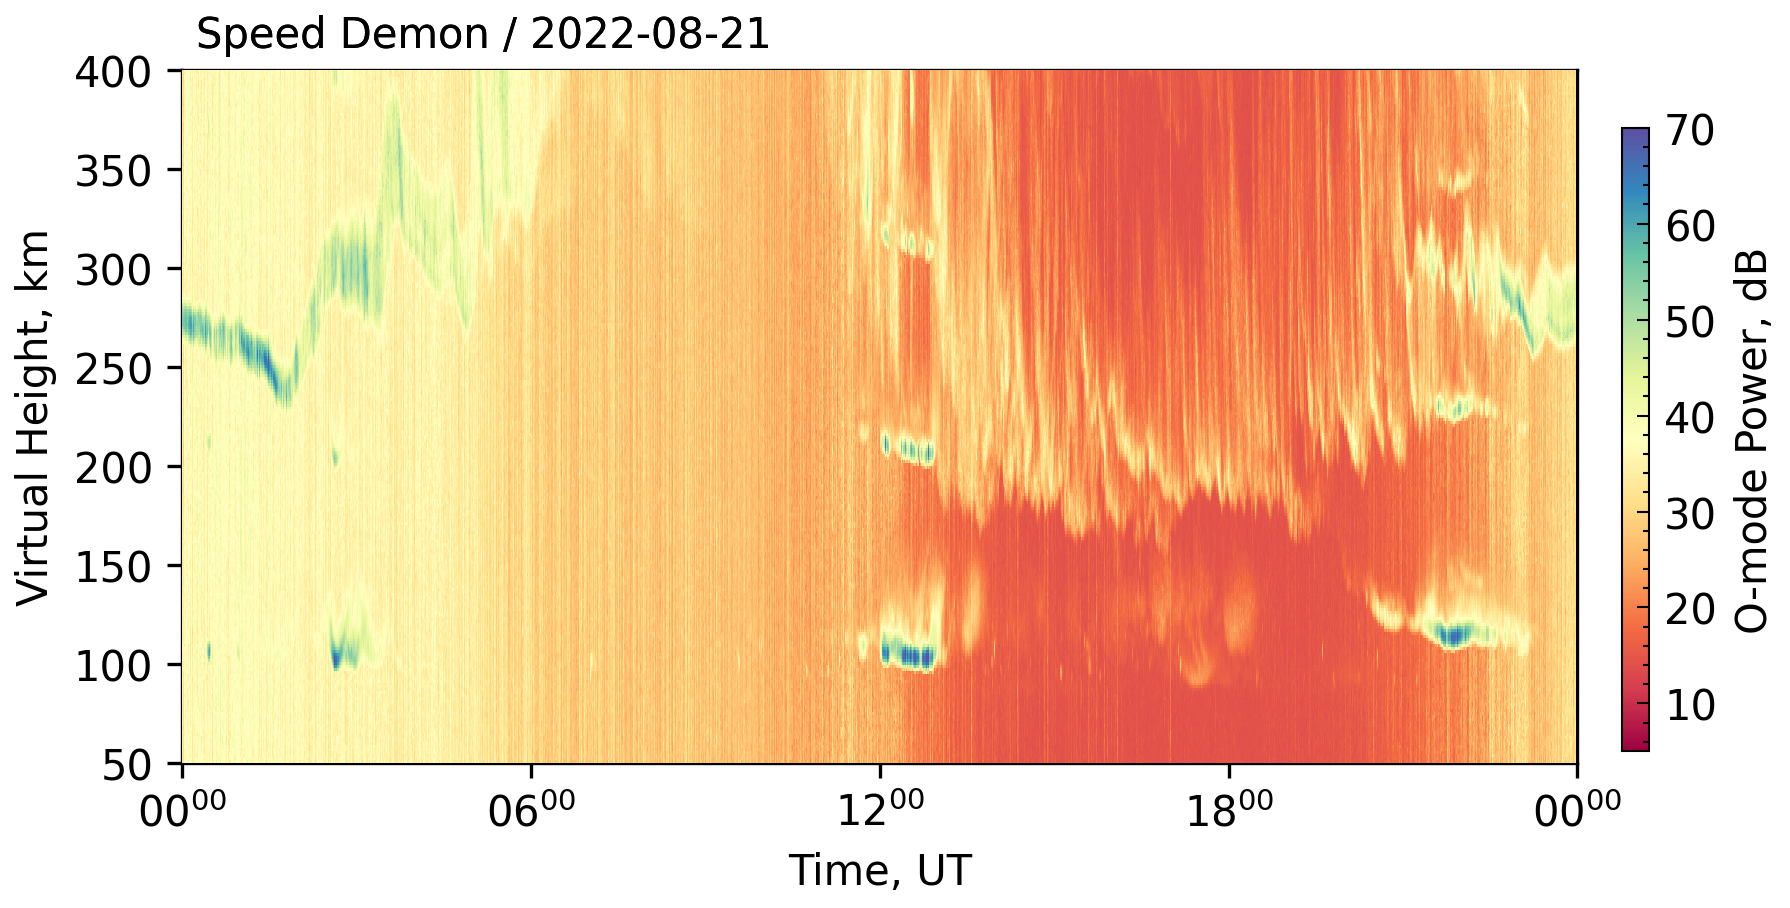
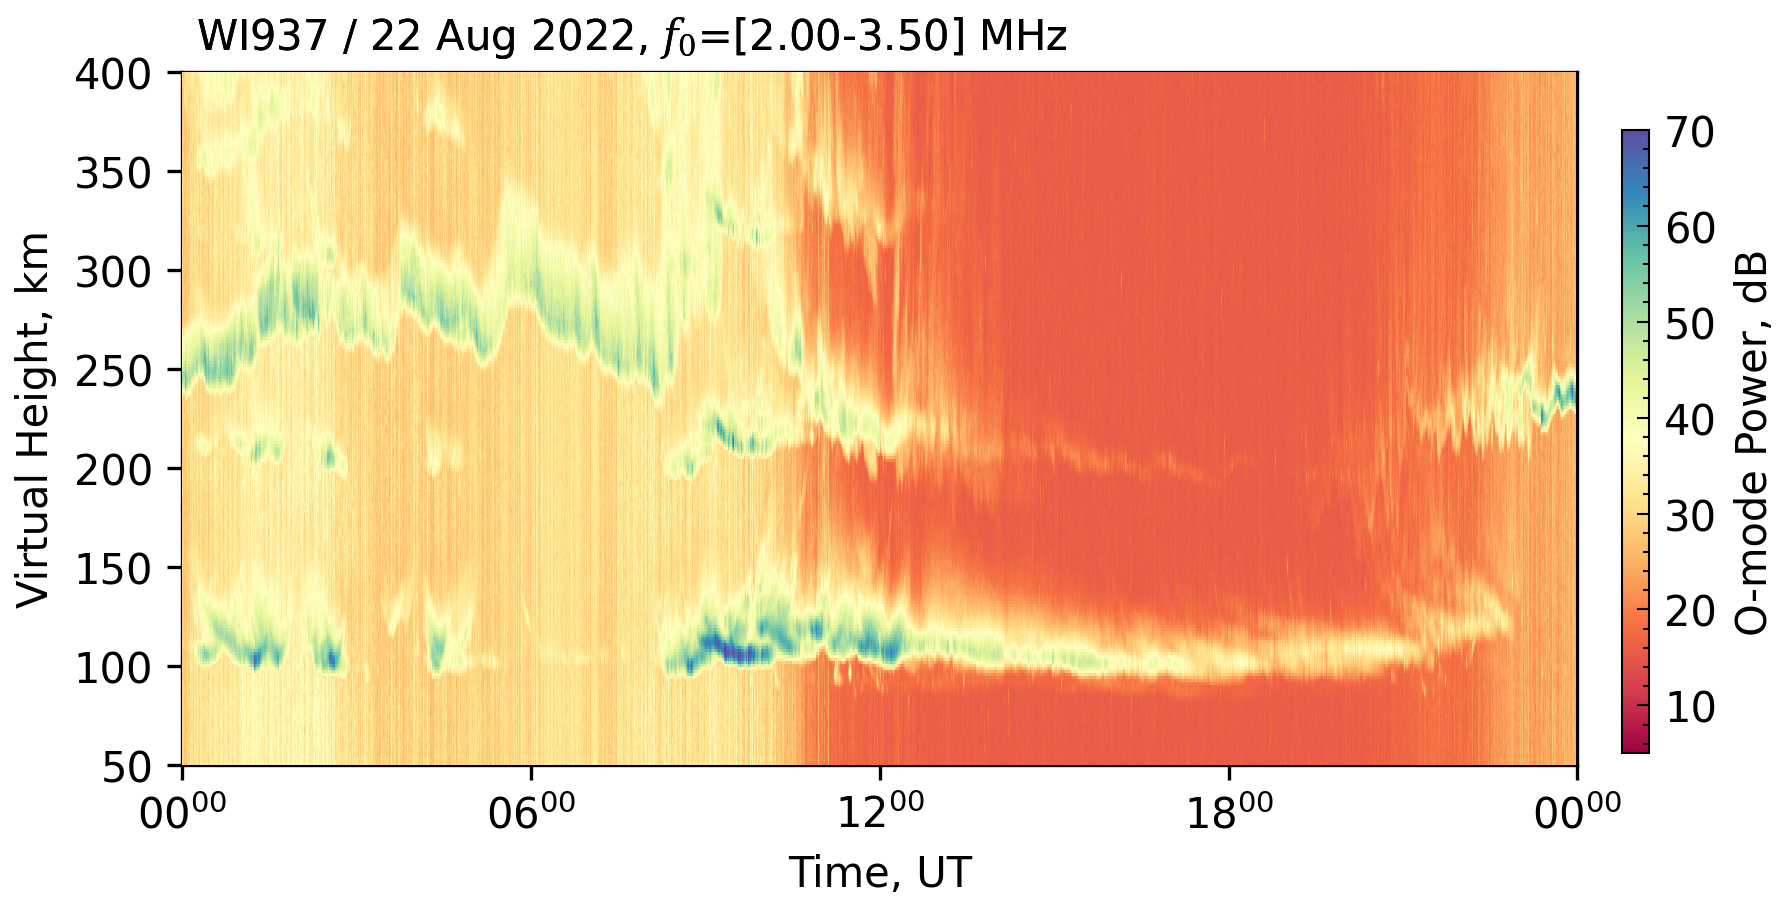
Updated docs and traces

diff --git a/pynasonde/model/trace/ionosphere.py b/pynasonde/model/trace/ionosphere.py
@@ -201,6 +201,33 @@ class IonosphereModels:
 
         return X, Z, Ne
 
+    @staticmethod
+    def default_obscuration_profile(
+        dx: np.ndarray,
+        peak_km: float = 0.0,
+        half_width_km: float = 300.0,
+    ) -> np.ndarray:
+        """
+        Normalized triangular obscuration profile with a configurable peak.
+
+        Parameters
+        ----------
+        dx : array-like
+            Horizontal coordinate(s) [km].
+        peak_km : float
+            Location of the maximum obscuration [km].
+        half_width_km : float
+            Distance from the peak where the obscuration tapers to zero [km].
+
+        Returns
+        -------
+        np.ndarray
+            Values between 0 and 1.
+        """
+        half_width_km = max(float(half_width_km), np.finfo(float).eps)
+        profile = 1.0 - np.abs(np.asarray(dx, dtype=float) - peak_km) / half_width_km
+        return np.clip(profile, 0.0, 1.0)
+
     @classmethod
     def n_layers(
         cls,
@@ -237,6 +264,63 @@ class IonosphereModels:
         hmF2 = hmF2 + hmf2_tilt_funct(X)
         z = (Z - hmF2) / H_scale
         Ne = NmF2 * np.exp(0.5 * (1 - z - np.exp(-z))) + Ne_floor
+        return X, Z, Ne
+
+    @classmethod
+    def chapman_with_grading_obscuration(
+        cls,
+        x: np.ndarray = np.linspace(-1500, 1500, 601),  # horizontal distance [km]
+        hs: np.ndarray = np.linspace(0, 1000, 501),  # altitude [km]
+        NmF2: float = 1e12,  # peak density [m^-3]
+        hmF2: float = 300.0,  # F2 peak height [km]
+        H_scale: float = 50.0,  # scale height [km]
+        Ne_floor: float = 2e10,
+        obs_tilt_funct=None,
+        obscuration_peak_km: float = 0.0,
+        obscuration_half_width_km: float = 300.0,
+        obscuration_depth: float = 1.0,
+    ):
+        """
+        Introduce a Chapman layer with a horizontal obscuration gradient.
+
+        Parameters
+        ----------
+        x, hs : array-like
+            Horizontal and vertical grids [km].
+        NmF2 : float
+            Background peak electron density [m^-3].
+        hmF2 : float
+            F2 peak height [km].
+        H_scale : float
+            Scale height [km].
+        Ne_floor : float
+            Minimum electron density [m^-3].
+        obs_tilt_funct : callable, optional
+            Callable returning values in [0, 1] describing the obscuration profile.
+        obscuration_peak_km : float
+            Peak location for the default obscuration profile [km].
+        obscuration_half_width_km : float
+            Half-width for the default obscuration profile [km].
+        obscuration_depth : float
+            Fractional reduction applied at full obscuration (0=no change, 1=full).
+        """
+        X, Z = np.meshgrid(x, hs)
+        z = (Z - hmF2) / H_scale
+        base_profile = np.exp(0.5 * (1.0 - z - np.exp(-z)))
+
+        if obs_tilt_funct is None:
+            obscuration = cls.default_obscuration_profile(
+                X,
+                peak_km=obscuration_peak_km,
+                half_width_km=obscuration_half_width_km,
+            )
+        else:
+            obscuration = np.clip(np.asarray(obs_tilt_funct(X), dtype=float), 0.0, 1.0)
+
+        depth = np.clip(obscuration_depth, 0.0, 1.0)
+        NmF2_mod = NmF2 * (1.0 - depth * obscuration)
+
+        Ne = NmF2_mod * base_profile + Ne_floor
         return X, Z, Ne
 
     @classmethod

diff --git a/examples/vipir/fti.py b/examples/vipir/fti.py
@@ -32,6 +32,7 @@ def generate_fti_profiles(
     fig_title: str | None = None,
     stn: str = "",
     flim: tuple[float, float] = (3.5, 4.5),
+    date: dt.datetime | None = None,
 ) -> pd.DataFrame:
     """Render an O-mode frequency–time interval plot for a folder of NGI files.
 
@@ -128,7 +129,7 @@ def generate_fti_profiles(
         xtick_locator=mdates.HourLocator(interval=6),
         xdate_lims=[obs_start, obs_end],
     )
-    axis.set_xlim(dt.datetime(2022,8,21), dt.datetime(2022,8,21)+dt.timedelta(hours=24))
+    axis.set_xlim(date, date+dt.timedelta(hours=24))
     axis.set_ylim(50, 400)
     axis.text(0.95, 1.05, "", ha="right", va="center", transform=axis.transAxes)
     ionogram.save(fig_file)
@@ -147,20 +148,21 @@ if __name__ == "__main__":
     temp_root = Path("/tmp/vipir_fti")
     stn = "WI937"
 
-    for doy in range(233, 234):
+    for doy in range(234, 235):
         date = dt.datetime(2022, 1, 1) + dt.timedelta(days=doy - 1)
         src = data_root / "2022" / f"{doy}" / "ionogram"
         tmp = temp_root / f"{doy}" / "ionogram"
         shutil.rmtree(tmp.parent, ignore_errors=True)
         shutil.copytree(src, tmp)
         try:
-            title = f"Speed Demon / {date:%Y-%m-%d}"
+            title = None # f"Speed Demon / {date:%Y-%m-%d}"
             generate_fti_profiles(
                 folder=str(tmp),
                 fig_file_name=f"docs/examples/figures/fti.{stn}.{date:%Yj}.png",
                 fig_title=title,
                 stn=stn,
-                flim=(3.5, 4.5),
+                flim=(2, 3.5),
+                date=date,
             )
         finally:
             shutil.rmtree(tmp.parent, ignore_errors=True)

diff --git a/pynasonde/model/trace/rt2d.py b/pynasonde/model/trace/rt2d.py
@@ -301,9 +301,14 @@ class RayTracer2D:
         outputs = outputs if len(outputs) > 0 else self.outputs
         for o in outputs:
             homing = (
-                (o.reason == "ground_hit")
-                and (np.round(o.y_km[-1], ground_height_precision) == 0.0)
-                and (np.abs(np.abs(o.x_km[-1]) - o.x_km[0]) <= homing_error_km)
+                (
+                    (o.reason == "ground_hit")
+                    and (np.round(o.y_km[-1], ground_height_precision) == 0.0)
+                    and (np.abs(np.abs(o.x_km[-1]) - o.x_km[0]) <= homing_error_km)
+                )
+                or (
+                    o.reason == "evanescent"
+                )
             )
             if homing:
                 self.homing_roots.append(o.el0_deg)
